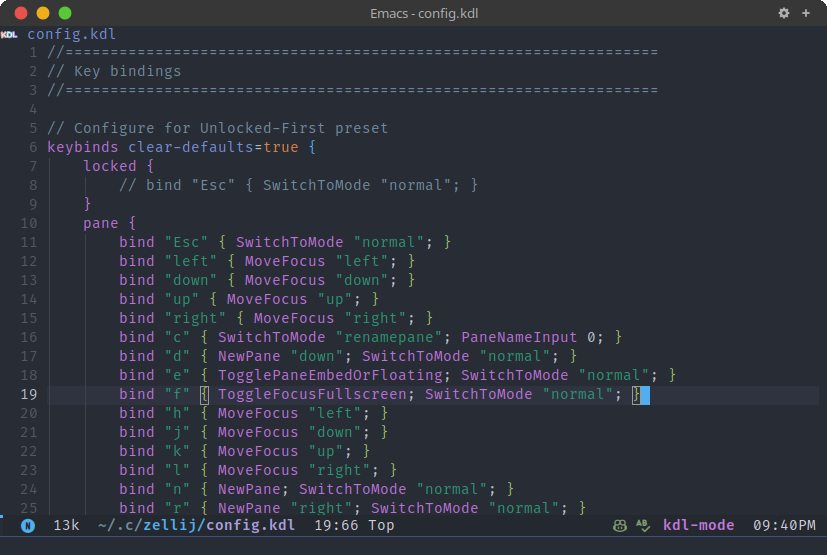
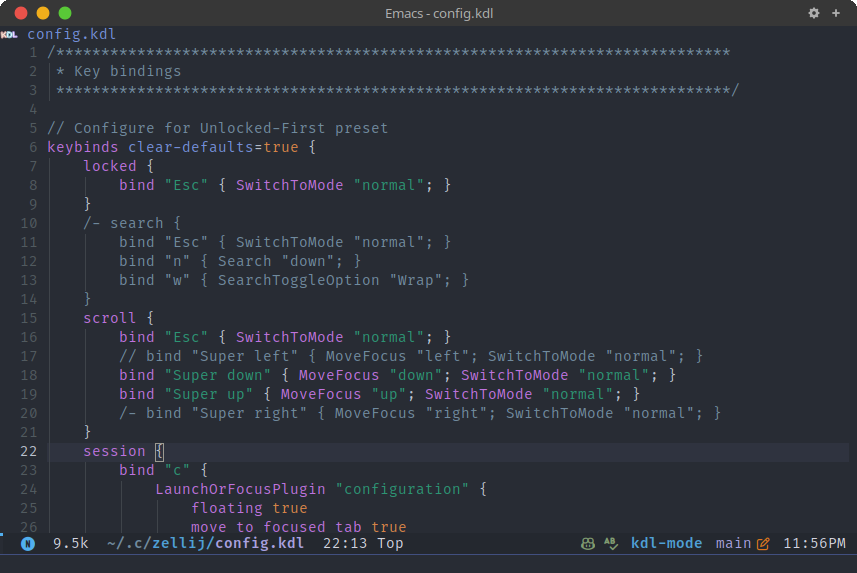
support font locks highlighting using tree-sitter-kdl

diff --git a/README.md b/README.md
@@ -1,22 +1,28 @@
-# kdl-mode
+kdl-mode
+========
 
 Emacs major mode for editing the [KDL document language](https://kdl.dev/).
 
-## Screenshot
+# Screenshot
 
 ![kdl-mode](screenshots/kdl-mode.png)
 
-## Installation
+# Installation
 
 - Automatic package installation from [Melpa](https://melpa.org/).
 
-## Features
+# Features
 
-### Supported
+- Syntax highlighting using regular expression
 
-- Syntax highlighting.
+- Syntax highlighting using Tree-Sitter (support Slashdash comment style)
+
 - Automatic code indentation.
 
-### Todo
+# Troubleshooting
 
-- [ ] Code outline via Imenu
+- If `tree-sitter-kdl` isn't installed automatically when open a KDL file, run `M-x kdl-install-tree-sitter-grammar` to ensure it is installed.
+
+# Acknowledgement
+
+- Syntax highlighting using [tree-sitter-kdl](https://github.com/tree-sitter-grammars/tree-sitter-kdl) was adopted from [kdl-ts-mode](https://github.com/dataphract/kdl-ts-mode/):
